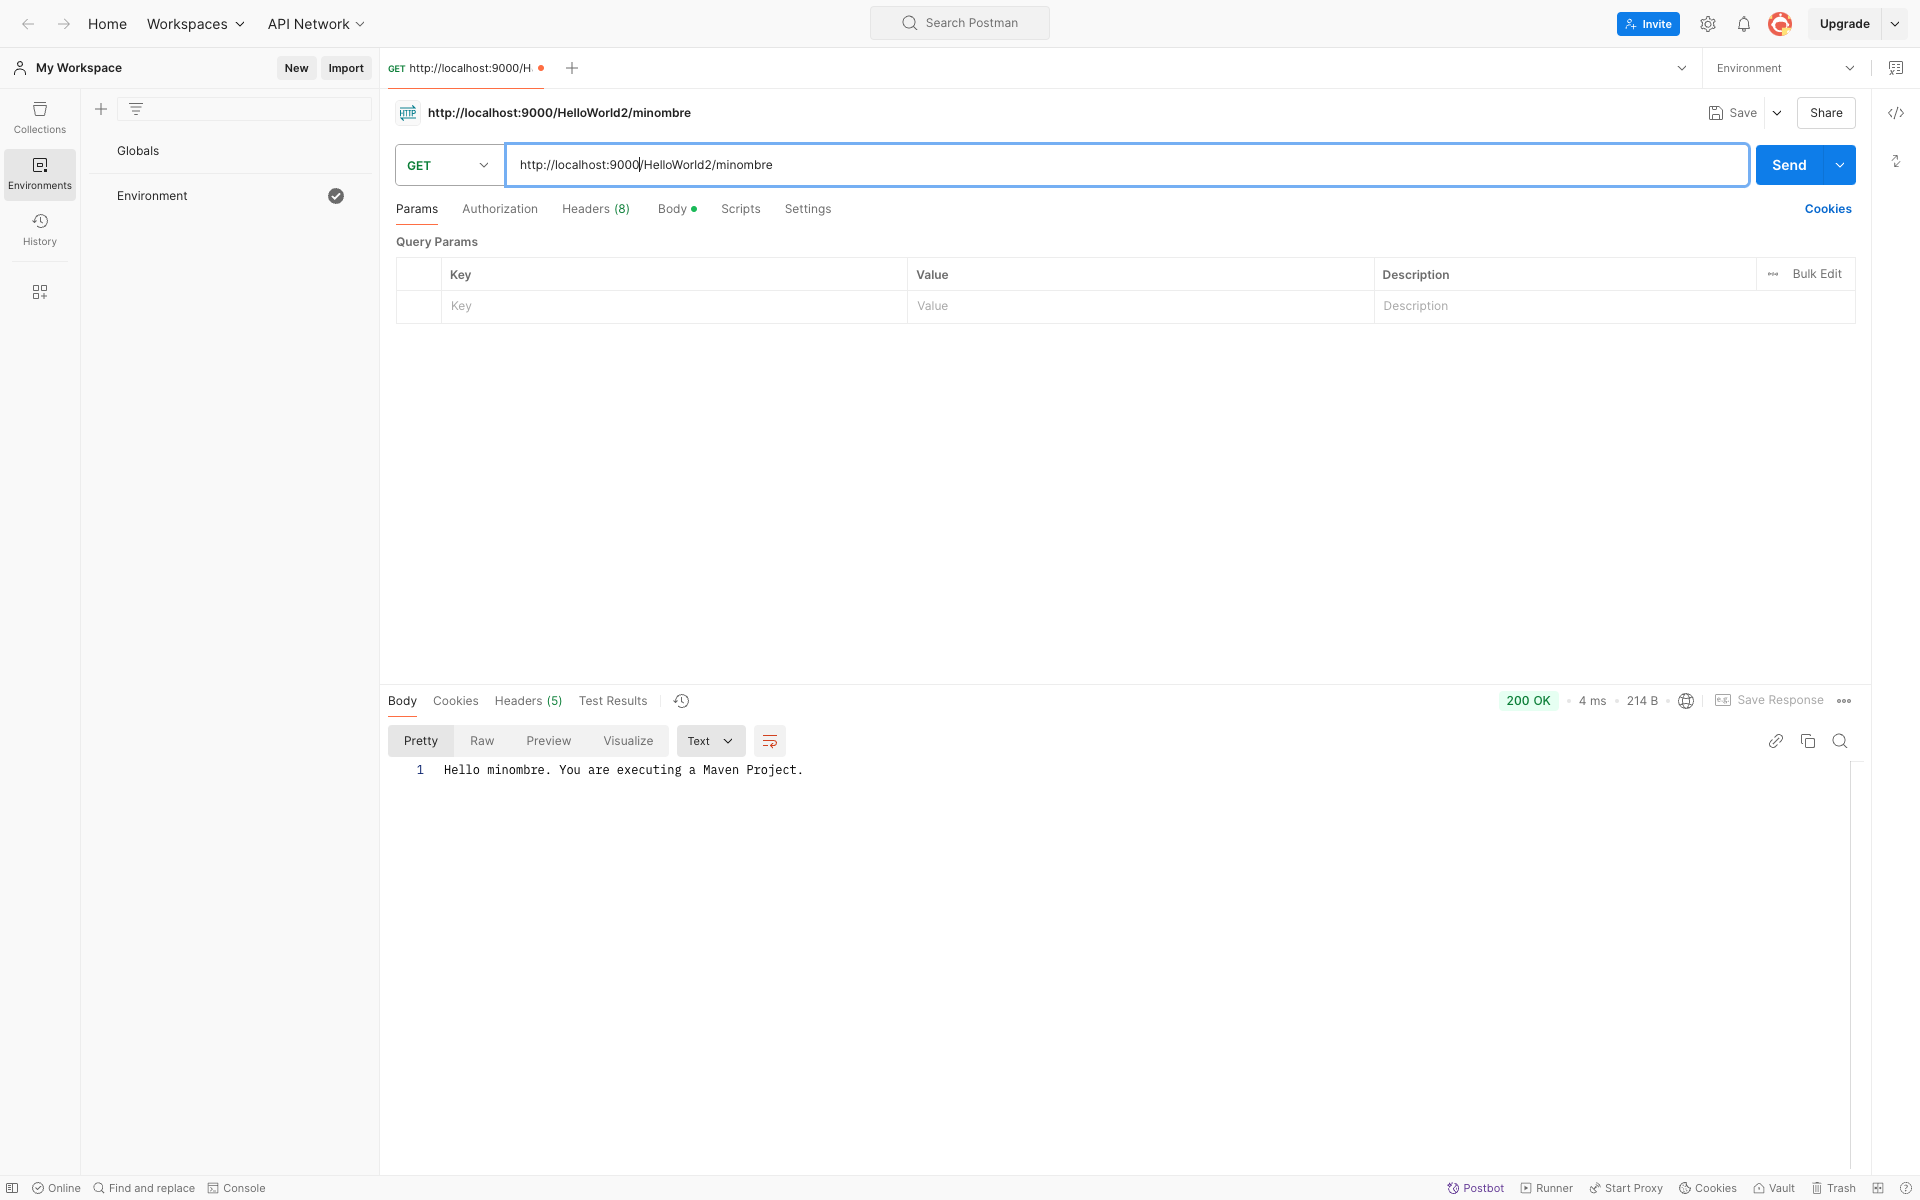
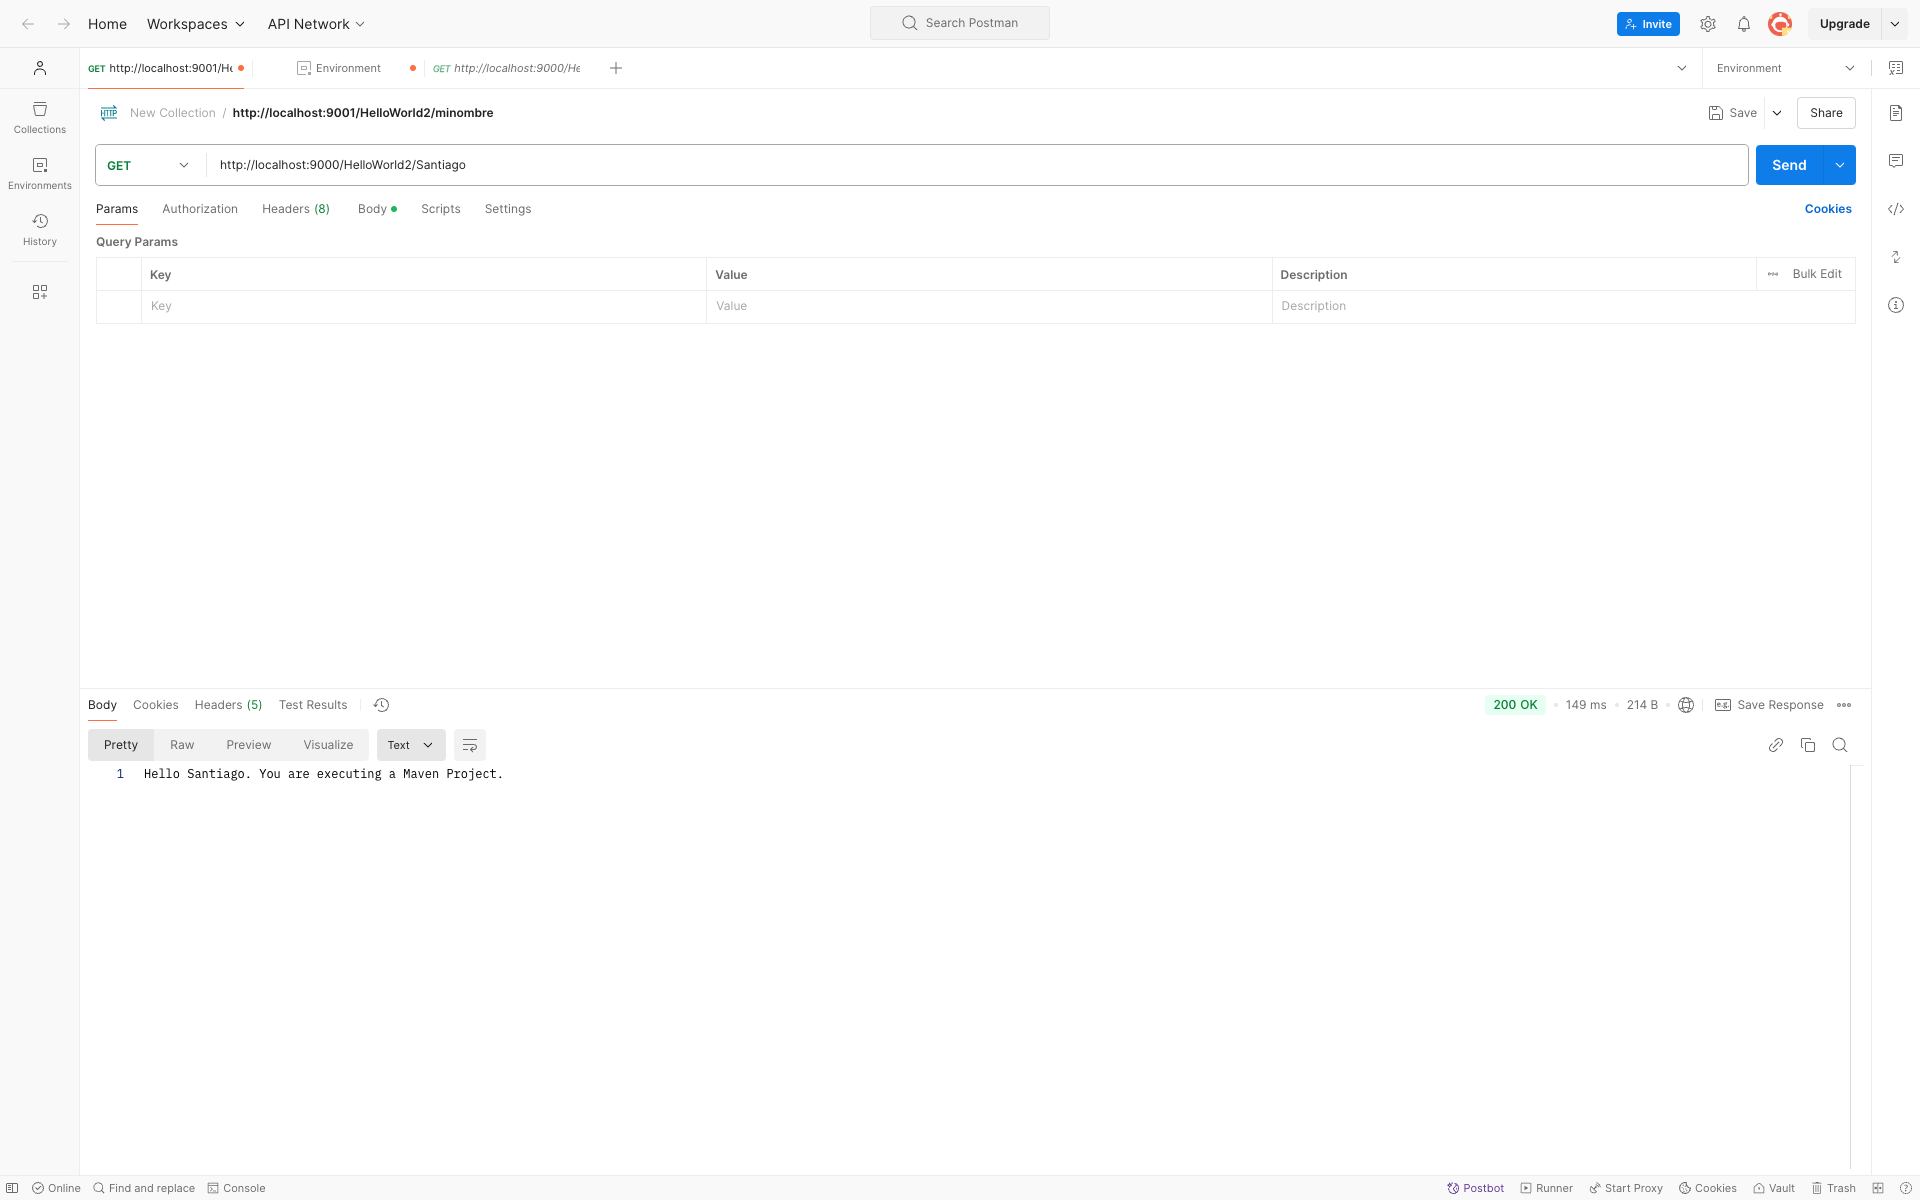
fix name

diff --git a/Sprint1/src/main/java/Module4_Testing/L1exercise1/Library.java b/Sprint1/src/main/java/Module4_Testing/L1exercise1/Library.java
@@ -1,0 +1,70 @@
+package Module4_Testing.L1exercise1;
+
+import org.slf4j.Logger;
+import org.slf4j.LoggerFactory;
+
+import java.util.ArrayList;
+
+public class Library {
+    private ArrayList<String> bookList;
+    private static final Logger logger = LoggerFactory.getLogger(Library.class);
+
+
+    public Library(){
+        this.bookList = new ArrayList<>();
+    }
+
+    public ArrayList<String> getBookList(){
+        return this.bookList;
+    }
+
+    public void addBookTitle(String book){
+        bookList.add(book);
+    }
+
+    public void seeBookList(){
+        bookList.forEach(System.out::println);
+    }
+
+    public int getBookListSize(){
+        return bookList.size();
+    }
+
+    public String getBookByIndex(int pos){
+        String bookFound = "";
+        try{
+            bookFound = this.bookList.get(pos);
+        } catch (IndexOutOfBoundsException e){
+            logger.warn("Error: The provided book position {} is invalid. The position must be between 1 " +
+                            "and {} (inclusive), but the list currently has {} books. Exception details: {}",
+                    pos, bookList.size(), e.getMessage(), e);
+        }
+        return bookFound;
+    }
+
+    public void addBookByPosition(String bookTitle, int pos){
+        try {
+            bookList.add(pos - 1, bookTitle);
+        } catch (IndexOutOfBoundsException e){
+            logger.error("Error: The provided book position {} is invalid. The position must be between 1 " +
+                            "and {} (inclusive), but the list currently has {} books. Exception details: {}",
+                    pos, bookList.size(), e.getMessage(), e);
+        }
+    }
+
+    public int findBookByName(String bookTitle){
+        return bookList.indexOf(bookTitle);
+    }
+
+    public String removeBook(String bookTitle){
+        String answer = "";
+        int idBookFound = findBookByName(bookTitle);
+        if (idBookFound == -1){
+            answer = "There are no books with that name.";
+        } else{
+            bookList.remove(idBookFound);
+            answer = "The book" + bookTitle + " has been deleted from the list.";
+        }
+        return answer;
+    }
+}

diff --git a/Sprint1/src/main/java/Module4_Testing/L2exercise6/Product.java b/Sprint1/src/main/java/Module4_Testing/L2exercise6/Product.java
@@ -1,0 +1,29 @@
+package Module4_Testing.L2exercise6;
+
+import java.util.ArrayList;
+import java.util.List;
+
+public class Product {
+    private String name;
+
+
+    public Product(String name){
+        this.name = name;
+    }
+
+    public String getName() {
+        return name;
+    }
+
+    public String ArrayIndexOutOfBounds(){
+        List<Product> products = new ArrayList<>();
+        products.add(new Product("Coca Cola"));
+        String strException = "";
+        try{
+            strException = products.get(1).getName();
+        } catch (IndexOutOfBoundsException err){
+            strException = err.getMessage();
+        }
+        return strException;
+    }
+}

diff --git a/Sprint4/Module1_SpringBoot/S04T01N02/src/main/java/cat/itacademy/s04/t01/n02/controller/HelloWorldController.java b/Sprint4/Module1_SpringBoot/S04T01N02/src/main/java/cat/itacademy/s04/t01/n02/controller/HelloWorldController.java
@@ -15,9 +15,7 @@ public class HelloWorldController {
 
     @GetMapping({"/HelloWorld2", "/HelloWorld2/{name}"})
     public String greeting2(@PathVariable(required = false) String name){
-        if (name == null){
-            name = "minombre";
-        }
-        return "Hello " + name + ". You are executing a Gradle Project.";
+       String realName = (name == null)? "UNKNOWN" : name;
+        return "Hello " + realName  + ". You are executing a Gradle Project.";
     }
 }

diff --git a/Sprint4/Module1_SpringBoot/S04T01N01/src/main/java/cat/itacademy/s04/t01/n01/controller/HelloWorldController.java b/Sprint4/Module1_SpringBoot/S04T01N01/src/main/java/cat/itacademy/s04/t01/n01/controller/HelloWorldController.java
@@ -12,9 +12,7 @@ public class HelloWorldController {
 
     @GetMapping({"/HelloWorld2", "/HelloWorld2/{name}"})
     public String greeting2(@PathVariable(required = false) String name){
-        if (name == null){
-            name = "minombre";
-        }
-        return "Hello " + name + ". You are executing a Maven Project.";
+        String realName = (name == null)? "UNKNOWN" : name;
+        return "Hello " + realName + ". You are executing a Maven Project.";
     }
 }

diff --git a/Sprint1/src/main/java/Module4_Testing/L1exercise2/CalculateDni.java b/Sprint1/src/main/java/Module4_Testing/L1exercise2/CalculateDni.java
@@ -1,0 +1,13 @@
+package Module4_Testing.L1exercise2;
+
+public class CalculateDni {
+    static String letters = "TRWAGMYFPDXBNJZSQVHLCKE";
+
+    public static char calculateDniLetter(long dniNumber){
+        if (dniNumber < 0 || dniNumber > 99999999){
+            throw new IllegalArgumentException("Dni number out of range");
+        }
+        int charIndexLetter = (int)(dniNumber % 23);
+        return letters.charAt((charIndexLetter));
+    }
+}

diff --git a/Sprint1/src/main/java/Module4_Testing/L1exercise1/Main.java b/Sprint1/src/main/java/Module4_Testing/L1exercise1/Main.java
@@ -1,0 +1,14 @@
+package Module4_Testing.L1exercise1;
+
+import java.util.ArrayList;
+
+public class Main {
+    public static void main(String[] args) {
+        ArrayList<Library> libraries = new ArrayList<>();
+        Library library = new Library();
+        libraries.add(library);
+
+        libraries.get(0).addBookTitle("To Kill a Mockingbird");
+        libraries.get(0).addBookTitle("La Colmena");
+    }
+}

diff --git a/Sprint1/src/main/java/Module4_Testing/L2exercise4/Car.java b/Sprint1/src/main/java/Module4_Testing/L2exercise4/Car.java
@@ -1,0 +1,19 @@
+package Module4_Testing.L2exercise4;
+
+public class Car {
+    private String brand;
+    private int price;
+
+    public Car(String brand, int price){
+        this.brand = brand;
+        this.price = price;
+    }
+
+    public String getBrand(){
+        return this.brand;
+    }
+
+    public Integer getPrice(){
+        return this.price;
+    }
+}

diff --git a/Sprint1/src/main/java/Module4_Testing/L1exercise3/ArrayListExceptions.java b/Sprint1/src/main/java/Module4_Testing/L1exercise3/ArrayListExceptions.java
@@ -1,0 +1,11 @@
+package Module4_Testing.L1exercise3;
+
+import java.util.List;
+
+public class ArrayListExceptions {
+    public static void listOutOfBounds(List<String> outOfBoundsList, int pos){
+        if (pos < 0 || pos >= outOfBoundsList.size()) {
+            throw new ArrayIndexOutOfBoundsException("Exception caught.");
+        }
+    }
+}

diff --git a/Sprint1/src/main/java/Module4_Testing/L2exercise2/Person.java b/Sprint1/src/main/java/Module4_Testing/L2exercise2/Person.java
@@ -1,0 +1,10 @@
+package Module4_Testing.L2exercise2;
+
+public class Person {
+    private String name;
+    private int age;
+    public Person(String name, int age){
+        this.name = name;
+        this.age = age;
+    }
+}
